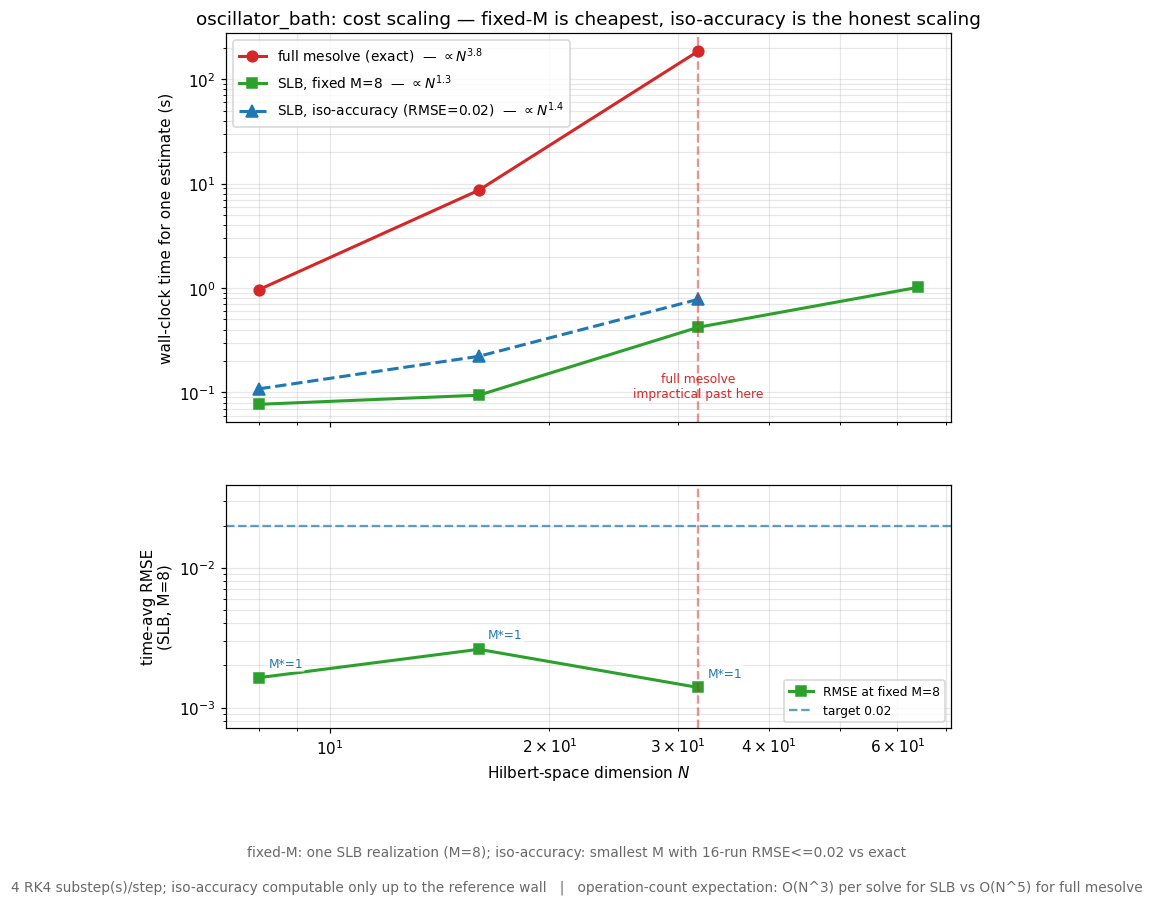
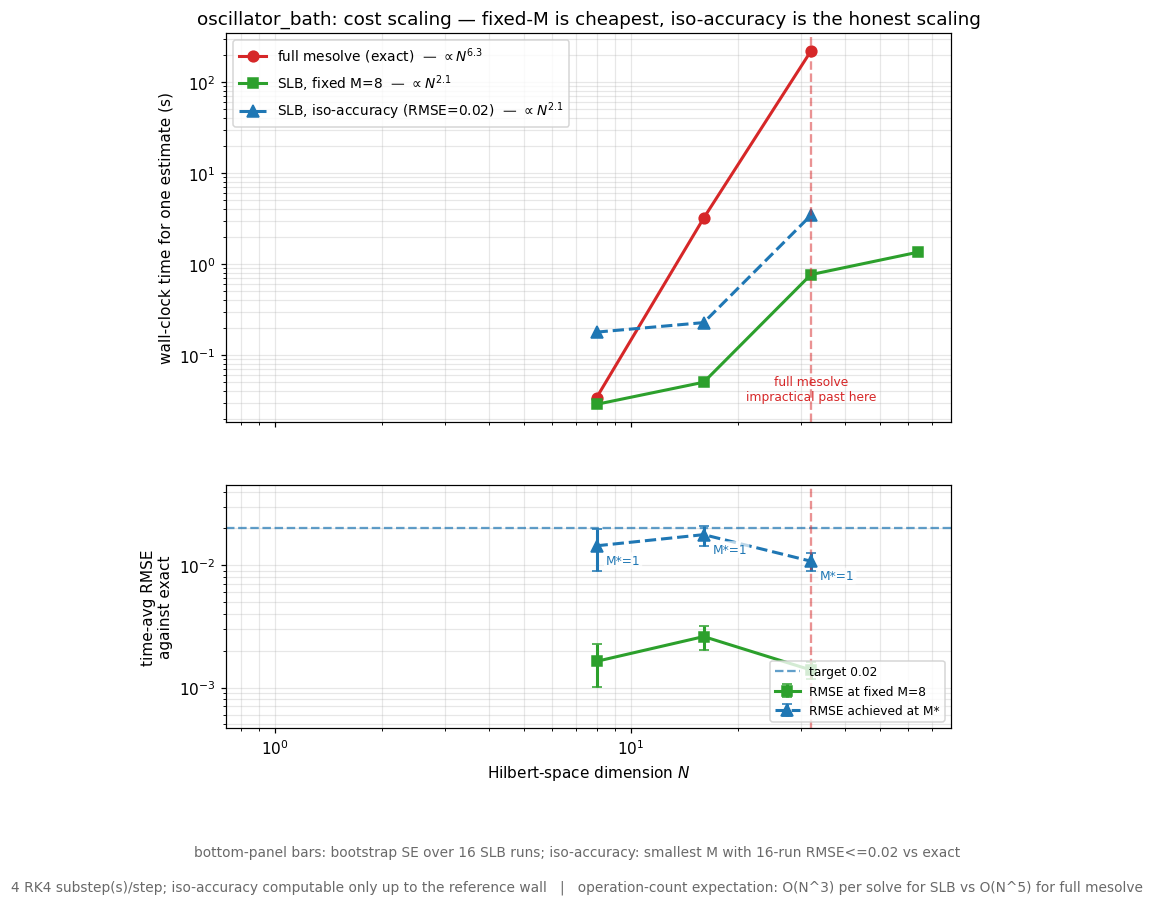
Fix Result 2 iso-accuracy RMSE plotting

diff --git a/benchmarks/benchmark_cost_scaling.py b/benchmarks/benchmark_cost_scaling.py
@@ -29,8 +29,8 @@ The figure has two panels sharing the dimension axis:
   (top)    wall-clock per solve vs N: full, SLB fixed-M, SLB iso-accuracy, each
            with its measured log-log slope.
   (bottom) the fixed-M accuracy vs N (RMSE climbing), the TARGET_RMSE line, and
-           the M actually needed to hit the target at each N (annotated) -- i.e.
-           the mechanism behind curve (2).
+           the RMSE actually achieved by the M needed to hit the target at each N
+           (annotated) -- i.e. the mechanism behind curve (2).
 
 mcsolve is not shown here (its raw per-trajectory slope makes a cost-vs-size axis
 the wrong comparison); see the accuracy-cost frontier (Result 3).
@@ -58,7 +58,7 @@ TARGET_RMSE = 0.02      # accuracy target for the iso-accuracy cost curve
 M_ISO_GRID = [1, 2, 4, 8, 16, 32, 64, 128]   # M values searched to hit the target
 
 SYSTEMS = [
-    ("spin_chain",      build_spin_chain,      [2, 3, 4, 5]),     # dims 4..256
+    ("spin_chain",      build_spin_chain,      [2, 3, 4, 5]),     # dims 4..32
     ("oscillator_bath", build_oscillator_bath, [4, 8, 16, 32]),            # dims 8..64
 ]
 
@@ -69,6 +69,27 @@ def tavg_rmse(samples, n_eff, reference):
     bias = np.abs(mean - reference)
     sem = std / np.sqrt(n_eff)
     return float(np.mean(np.sqrt(bias ** 2 + sem ** 2)))
+
+
+def tavg_rmse_with_bootstrap(samples, reference, n_boot=256, seed=12345):
+    """Time-averaged RMSE plus a bootstrap standard error.
+
+    The RMSE itself is the value used throughout the benchmarks: at each time it
+    combines the bias of the sample mean with the SEM over independent SLB runs,
+    then averages over time.  The error bar is the bootstrap spread of that same
+    scalar estimator under resampling of the independent runs.
+    """
+    n_eff = samples.shape[0]
+    rmse = tavg_rmse(samples, n_eff, reference)
+    if n_eff < 2 or n_boot <= 1:
+        return rmse, np.nan
+
+    rng = np.random.default_rng(seed)
+    boot = np.empty(n_boot)
+    for b in range(n_boot):
+        idx = rng.integers(0, n_eff, size=n_eff)
+        boot[b] = tavg_rmse(samples[idx], n_eff, reference)
+    return rmse, float(np.std(boot, ddof=1))
 
 
 def slb_estimate(H, rho0, c_ops, m, n_runs):
@@ -82,22 +103,28 @@ def slb_estimate(H, rho0, c_ops, m, n_runs):
 
 def iso_accuracy_point(H, rho0, c_ops, reference, n_l):
     """Smallest M (from M_ISO_GRID) whose N_ACC-run RMSE <= TARGET_RMSE, and the
-    cost of that estimate. Returns (m_star, iso_cost, reached)."""
-    last_m, last_cost = None, np.nan
+    cost/RMSE of that estimate.
+
+    Returns (m_star, iso_cost, iso_rmse, iso_rmse_err, reached).
+    """
+    last_m, last_cost, last_rmse, last_err = None, np.nan, np.nan, np.nan
     for mc in M_ISO_GRID:
         mc = min(mc, n_l)
         samples, dt = slb_estimate(H, rho0, c_ops, mc, N_ACC)
-        r = tavg_rmse(samples, N_ACC, reference)
-        last_m, last_cost = mc, dt
+        r, rerr = tavg_rmse_with_bootstrap(samples, reference, seed=20000 + mc)
+        last_m, last_cost, last_rmse, last_err = mc, dt, r, rerr
         if r <= TARGET_RMSE:
-            return mc, dt, True
+            return mc, dt, r, rerr, True
         if mc >= n_l:
             break
-    return last_m, last_cost, False        # target not reached; report the best we tried
+    # Target not reached; report the best value tried, but mark it as not reached.
+    return last_m, last_cost, last_rmse, last_err, False
 
 
 def run(name, build, sizes):
-    dims, t_full, t_slb, rmse_fix, mstar, iso_cost = [], [], [], [], [], []
+    dims, t_full, t_slb = [], [], []
+    rmse_fix, rmse_fix_err = [], []
+    mstar, iso_cost, iso_rmse, iso_rmse_err = [], [], [], []
     full_feasible, wall_dim = True, None
     print(f"[{name}]  target RMSE = {TARGET_RMSE}")
     for s in sizes:
@@ -136,15 +163,22 @@ def run(name, build, sizes):
         # accuracy + iso-accuracy, where a reference exists
         if reference is not None:
             samp, _ = slb_estimate(H, rho0, c_ops, m, N_ACC)
-            rmse_fix.append(tavg_rmse(samp, N_ACC, reference))
-            ms, ic, reached = iso_accuracy_point(H, rho0, c_ops, reference, n_l)
+            rf, rferr = tavg_rmse_with_bootstrap(samp, reference, seed=10000 + dim)
+            rmse_fix.append(rf)
+            rmse_fix_err.append(rferr)
+            ms, ic, ir, irerr, reached = iso_accuracy_point(H, rho0, c_ops, reference, n_l)
             mstar.append(ms if reached else np.nan)
             iso_cost.append(ic if reached else np.nan)
+            iso_rmse.append(ir if reached else np.nan)
+            iso_rmse_err.append(irerr if reached else np.nan)
             tag = f"M*={ms}" if reached else f"M*>{ms} (target missed)"
         else:
             rmse_fix.append(np.nan)
+            rmse_fix_err.append(np.nan)
             mstar.append(np.nan)
             iso_cost.append(np.nan)
+            iso_rmse.append(np.nan)
+            iso_rmse_err.append(np.nan)
             tag = "(no ref)"
 
         ff = t_full[-1]
@@ -152,7 +186,9 @@ def run(name, build, sizes):
               f"   SLB(M={m})={t_slb[-1]:.3g}s   RMSE_fix={('%.2e' % rmse_fix[-1]) if np.isfinite(rmse_fix[-1]) else ' -- '}"
               f"   iso: {tag}")
     return (np.array(dims), np.array(t_full), np.array(t_slb),
-            np.array(rmse_fix), np.array(mstar, dtype=float), np.array(iso_cost), wall_dim)
+            np.array(rmse_fix), np.array(rmse_fix_err),
+            np.array(mstar, dtype=float), np.array(iso_cost),
+            np.array(iso_rmse), np.array(iso_rmse_err), wall_dim)
 
 
 def fit_slope(dims, times):
@@ -172,7 +208,8 @@ def _slope_label(base, dims, times):
     return base + (rf"  — $\propto N^{{{e:.1f}}}$" if e else ""), e
 
 
-def figure(name, dims, t_full, t_slb, rmse_fix, mstar, iso_cost, wall_dim):
+def figure(name, dims, t_full, t_slb, rmse_fix, rmse_fix_err,
+           mstar, iso_cost, iso_rmse, iso_rmse_err, wall_dim):
     import matplotlib
     matplotlib.use("Agg")
     import matplotlib.pyplot as plt
@@ -200,19 +237,27 @@ def figure(name, dims, t_full, t_slb, rmse_fix, mstar, iso_cost, wall_dim):
     ax.legend(loc="upper left", fontsize=9)
     ax.grid(True, which="both", alpha=0.3)
 
-    # ---- bottom: fixed-M accuracy + target + M* needed ----
+    # ---- bottom: fixed-M accuracy + target + M*-achieved accuracy ----
     rr = np.isfinite(rmse_fix)
-    axr.loglog(dims[rr], rmse_fix[rr], "s-", color="tab:green", lw=2, ms=7,
-               label=f"RMSE at fixed M={M_REP}")
+    axr.errorbar(dims[rr], rmse_fix[rr], yerr=rmse_fix_err[rr], fmt="s-",
+                 color="tab:green", lw=2, ms=7, capsize=3,
+                 label=f"RMSE at fixed M={M_REP}")
     axr.axhline(TARGET_RMSE, color="tab:blue", ls="--", alpha=0.7, label=f"target {TARGET_RMSE}")
-    for x, y, ms in zip(dims[rr], rmse_fix[rr], mstar[rr]):
+
+    ii = np.isfinite(iso_rmse)
+    axr.errorbar(dims[ii], iso_rmse[ii], yerr=iso_rmse_err[ii], fmt="^--",
+                 color="tab:blue", lw=2, ms=8, capsize=3,
+                 label="RMSE achieved at M*")
+    axr.set_xscale("log")
+    axr.set_yscale("log")
+    for x, y, ms in zip(dims[ii], iso_rmse[ii], mstar[ii]):
         if np.isfinite(ms):
             axr.annotate(f"M*={int(ms)}", (x, y), textcoords="offset points",
-                         xytext=(6, 7), fontsize=8, color="tab:blue",
+                         xytext=(6, -12), fontsize=8, color="tab:blue",
                          bbox=dict(boxstyle="round,pad=0.15", fc="white", ec="none", alpha=0.7))
     if wall_dim is not None:
         axr.axvline(wall_dim, color="tab:red", ls="--", alpha=0.5)
-    axr.set_ylabel(f"time-avg RMSE\n(SLB, M={M_REP})")
+    axr.set_ylabel("time-avg RMSE\nagainst exact")
     axr.set_xlabel(r"Hilbert-space dimension $N$")
     axr.legend(loc="lower right", fontsize=8)
     axr.grid(True, which="both", alpha=0.3)
@@ -220,7 +265,7 @@ def figure(name, dims, t_full, t_slb, rmse_fix, mstar, iso_cost, wall_dim):
 
     add_settings_footer(
         fig,
-        f"fixed-M: one SLB realization (M={M_REP}); iso-accuracy: smallest M with "
+        f"bottom-panel bars: bootstrap SE over {N_ACC} SLB runs; iso-accuracy: smallest M with "
         f"{N_ACC}-run RMSE<={TARGET_RMSE} vs exact",
         f"{SUBSTEPS} RK4 substep(s)/step; iso-accuracy computable only up to the reference wall",
         "operation-count expectation: O(N^3) per solve for SLB vs O(N^5) for full mesolve",

diff --git a/benchmarks/BENCHMARKS.md b/benchmarks/BENCHMARKS.md
@@ -342,7 +342,7 @@ density-matrix solves of $M$ operators each — a total of $M\times$
 | figure | `M` | `n_realizations` | error bars |
 |---|---|---|---|
 | accuracy (Result 1) | system-dependent | 32 | $\pm1$ std band |
-| cost scaling (Result 2) | 8 (iso-accuracy sweeps `M`) | 1 (cost) / 16 (RMSE) | — |
+| cost scaling (Result 2) | 8 (iso-accuracy sweeps `M`) | 1 (cost) / 16 (RMSE) | bootstrap SE over 16 SLB runs |
 | frontier (Result 3) | 1, 2, 4, 8, 16, 32 | 8 / 16 / 32 | $S/\sqrt{N}$ |
 | iso-cost vs dim (Result 4) | swept to target ($\le 128$) | 4 / 8 / 16 | mcsolve via $S/\sqrt{\texttt{ntraj}}$ fit |
 
@@ -481,25 +481,29 @@ with the system, so a fixed number of bundles resolves the dissipator less
 finely. The bottom panel shows this directly — the fixed-$M$ RMSE climbs and
 crosses the target line — so a pure fixed-$M$ speed plot compares at a *moving*
 accuracy, which invites the obvious objection: fast is meaningless if the error
-blows up with $N$.
+blows up with $N$. Error bars in this panel are bootstrap standard errors of the
+same time-averaged RMSE estimator, resampling the 16 independent SLB runs used to
+measure accuracy.
 
 **Iso-accuracy — the cost to hold a *fixed* accuracy (third curve).** To answer
 "fast *at what accuracy*", the iso-accuracy curve chooses, at each $N$, the
 smallest bundle size $M^\ast$ — the first on a geometric grid $M = 1, 2, 4,
 \ldots$ whose 16-run time-averaged RMSE reaches a fixed target (here
 $\text{RMSE}=0.02$, measured against the exact solve) — and plots the cost of *that*
-solve. **The two panels line up vertically:** the $M^\ast$ annotated in the bottom
-panel at each dimension is exactly the bundle size whose wall-clock cost sits
-directly above it on the iso-accuracy curve — so a vertical read at any $N$ gives,
-for that system, both the accuracy floor and the price of holding it. The required
-$M^\ast$ grows with $N$ (annotated in the bottom panel —
-roughly $M^\ast\propto N$ on the chain), so this curve is steeper than fixed-$M$:
-holding accuracy costs about one extra power of $N$. But it still sits far below
-the exact solver, so SLB's advantage survives the honest accounting. It is
-computable only up to the reference wall, since tuning $M^\ast$ needs the exact
-answer. (On the oscillator the target is met with $M^\ast=1$ at every size — a
-single bundle already suffices — so there the fixed-$M$ and iso-accuracy costs
-coincide.)
+solve. **The two panels line up vertically:** the $M^\ast$ labels in the bottom
+panel sit on the RMSE actually achieved by those $M^\ast$ runs, not on the
+separate fixed-$M=8$ degradation curve. Because $M$ is searched on a discrete grid,
+the achieved points usually sit at or just below the target rather than exactly on
+it. The same $M^\ast$ is the bundle size whose wall-clock cost sits directly above
+it on the iso-accuracy curve — so a vertical read at any $N$ gives, for that
+system, both the achieved target-level accuracy and the price of holding it. The
+required $M^\ast$ grows with $N$ (annotated in the bottom panel — roughly
+$M^\ast\propto N$ on the chain), so this curve is steeper than fixed-$M$: holding
+accuracy costs about one extra power of $N$. But it still sits far below the exact
+solver, so SLB's advantage survives the honest accounting. It is computable only
+up to the reference wall, since tuning $M^\ast$ needs the exact answer. (On the
+oscillator the target is met with $M^\ast=1$ at every size — a single bundle
+already suffices — so there the fixed-$M$ and iso-accuracy costs coincide.)
 
 **What this figure does and doesn't show.** It shows SLB's speedup over the
 *exact* solver — the comparison the method is built to win. It leaves `mcsolve`
